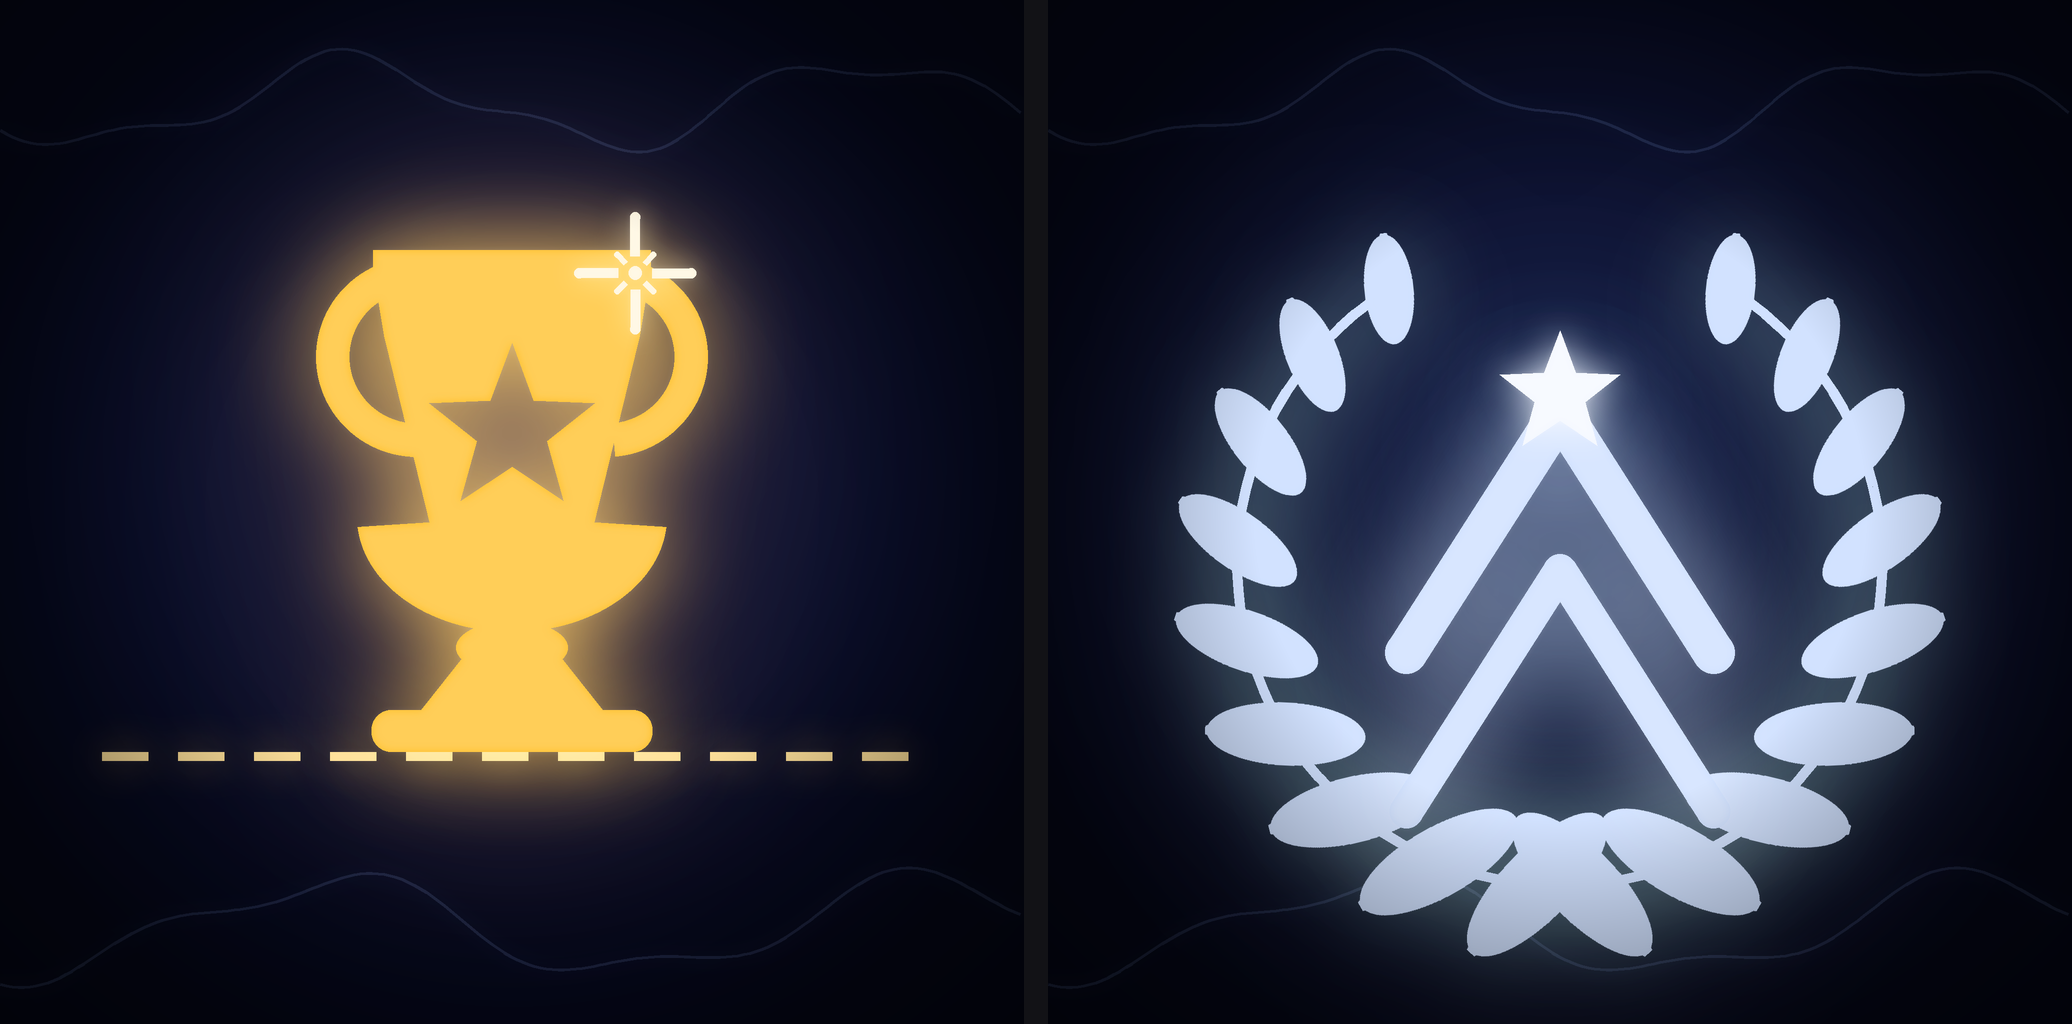
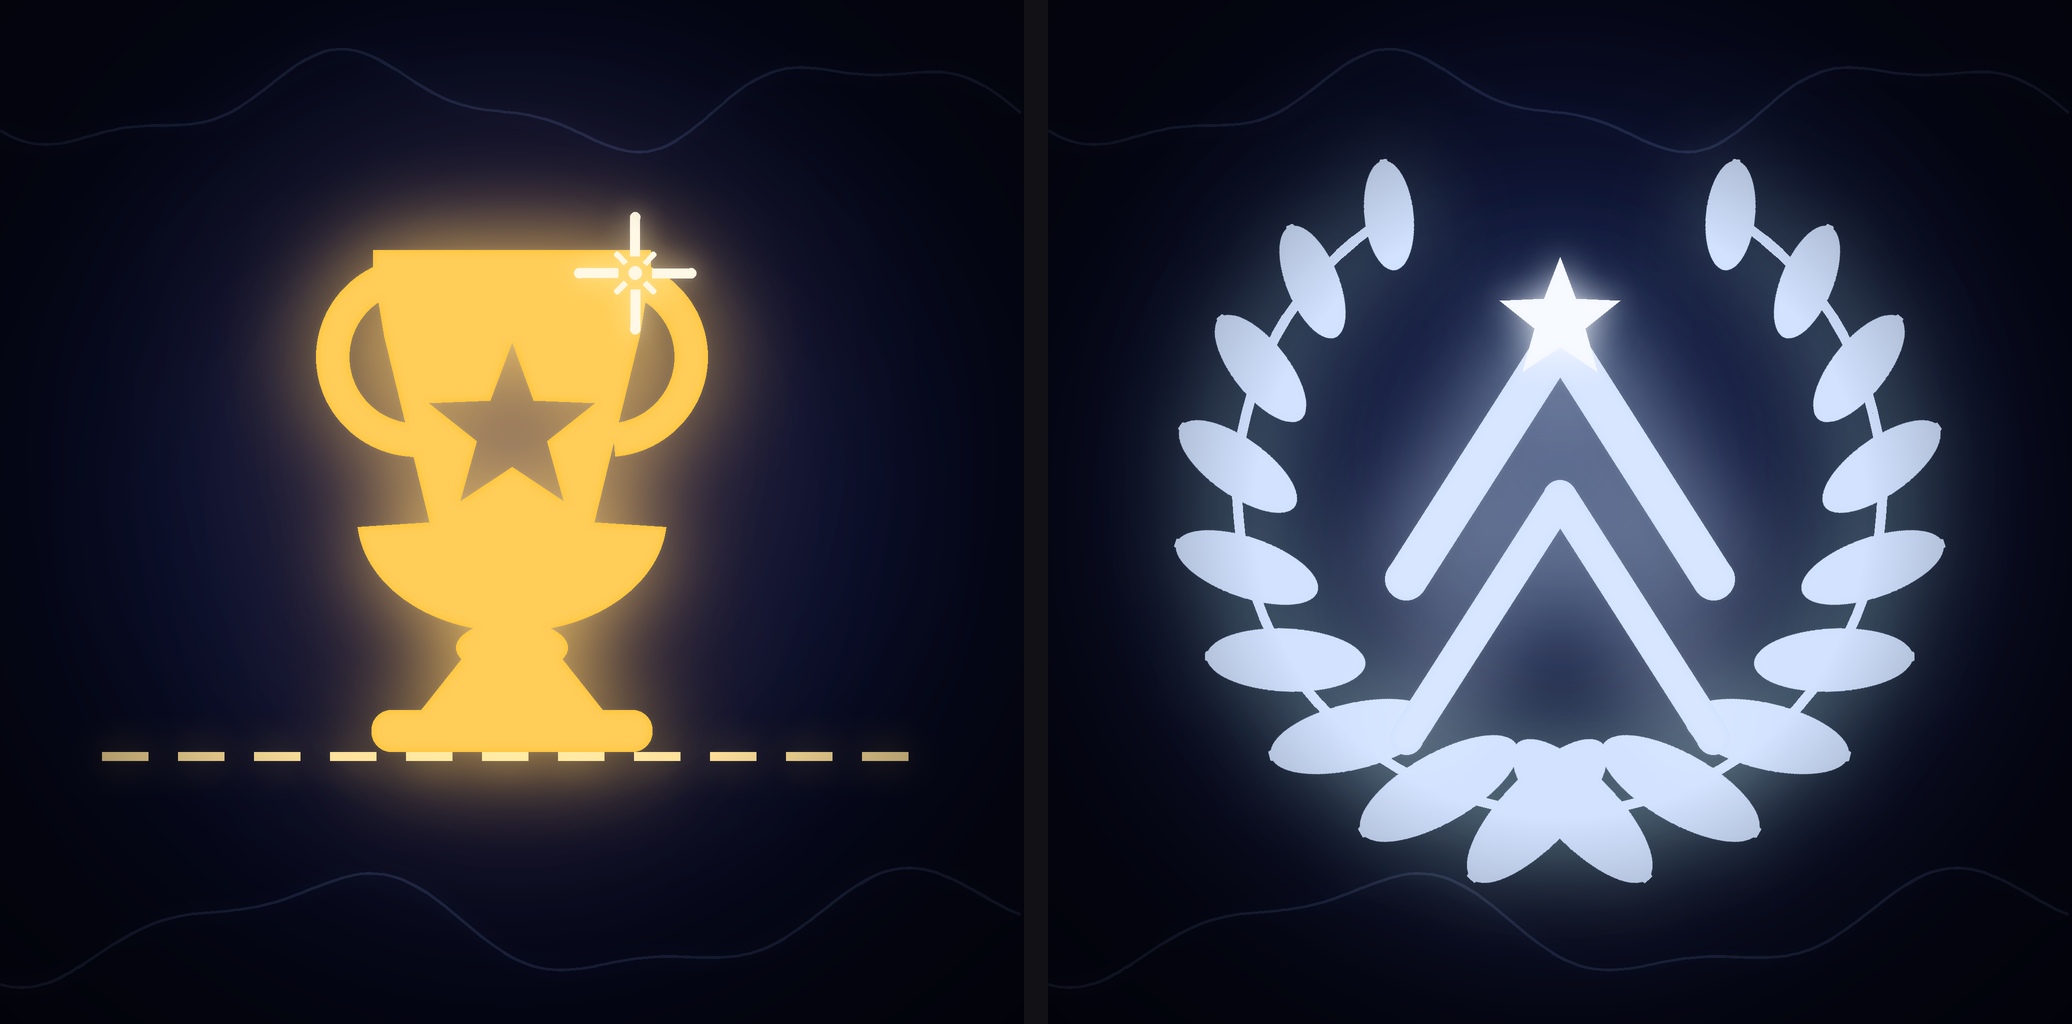
Deep run phase 3: boulders, coin-line shapes, palette drift, apex mines
- Boulders (state/lifecycle/world/systems/update/draw): large static rounded
  rocks in the deep corridor from world-x 84000 (~score 1400), sparse cadence
  (boulderSpacing, floor 2400). Radius bounded so both gaps clear the player
  (R <= halfGap - 2*PR); centre nudged toward one wall so one route is easy and
  one is a squeeze - "commit up or down", not "react". Circle-circle collision
  + shield shove-clear. Bombs clear them; bullets spark off. Seeded via
  _deepHash, no rng() stream impact.
- Coin-line shapes (makeCoin): deep coin y follows a seeded sine arc per band
  instead of scattering. rng() still consumed so coin types are unchanged.
- Palette drift (draw): wall/stalactite GLOW lerps toward a cool deep tint past
  _prog2>1, capped 0.30. Base rock + daily identity untouched.
- Apex-biased mines (makeMine, flagged): ~60% of mines at a genuine bend apex
  snap toward the centreline. _deepHash-keyed. Watch for "unfair" in playtest.

test-math: boulderSpacing sparse-cadence guard. Verified: score-8061 run,
121 boulders all with both gaps >= 2*PR, zero errors; boulder + coin-line
render eyeballed.

Claude-Session: https://claude.ai/code/session_0125EXHWm3vWhGBUsAZk5dZr

Changed region(s): [[0.556, 0.1562, 0.9575, 0.9375]]

diff --git a/src/systems.js b/src/systems.js
@@ -181,7 +181,22 @@ function makeCoin(wx) {
     if (hi <= lo) return null;
     const cy     = (lo + hi) / 2;
     const margin = (hi - lo) * 0.40;
-    const coinY  = Math.max(lo, Math.min(hi, cy + (rng() - 0.5) * 2 * margin));
+    // rng() is consumed either way so the type roll below (and everything after in
+    // the stream) is unchanged. Past the plateau, deep coin runs trace a seeded
+    // slow arc instead of scattering independently - a "line to follow", a second
+    // thing to read besides the walls. Pure _deepHash, so the shape is identical
+    // for every player that day.
+    const rY = rng();
+    let coinY;
+    if (_deepVarietyOn && wx > DEEP_VARIETY_WX) {
+        const seg = Math.floor((wx - DEEP_VARIETY_WX) / 3200);
+        const ph  = _deepHash(seg + 0x2000) * Math.PI * 2;
+        const k   = lerp(0.004, 0.012, _deepHash(seg + 0x2001));
+        const amp = (hi - lo) * 0.5 * (0.45 + _deepHash(seg + 0x2002) * 0.55);
+        coinY = Math.max(lo, Math.min(hi, cy + Math.sin(wx * k + ph) * amp));
+    } else {
+        coinY = Math.max(lo, Math.min(hi, cy + (rY - 0.5) * 2 * margin));
+    }
     const r = rng();
     let type = 'gold';
     if (_prog >= 0.38) {
@@ -457,6 +472,18 @@ function updateBullets(dt) {
             }
         }
         if (!hit) {
+            for (const bo of boulders) {
+                const dx = b.wx - bo.wx, dy = b.y - bo.y;
+                if (dx*dx + dy*dy < (bo.r + 3.5) * (bo.r + 3.5)) {
+                    burstStalCrack(bsx, b.y);   // sparks off - solid rock, not destroyed
+                    sfxStalCrack();
+                    window.webkit?.messageHandlers?.haptic?.postMessage('light');
+                    hit = true;
+                    break;
+                }
+            }
+        }
+        if (!hit) {
             for (let mi = mines.length - 1; mi >= 0; mi--) {
                 const m  = mines[mi];
                 const dx = b.wx - m.wx;
@@ -571,7 +598,19 @@ function makeMine(wx) {
     }
 
     if (hi - lo < MINE_R * 2) return null;
-    const baseY = lo + rng() * (hi - lo);
+    let baseY = lo + rng() * (hi - lo);
+    // Apex bias (deep only, flagged): at a genuine bend apex - where the corridor
+    // shape already forces the player onto the centreline - most mines snap toward
+    // that centreline instead of scattering. Same count, same speed; it just puts
+    // the mine where the player has to be. _deepHash keyed so it doesn't perturb
+    // the rng() stream. Watch this one in playtest for a "the game is cheating" read.
+    if (_deepVarietyOn && wx > DEEP_VARIETY_WX) {
+        const cM = centerAt(wx), cL = centerAt(wx - 40), cR = centerAt(wx + 40);
+        const isApex = (cL - cM) * (cR - cM) > 0;   // neighbours same side => local extremum
+        if (isApex && _deepHash(Math.floor(wx / 130) + 0x4000) < 0.6) {
+            baseY = Math.max(lo, Math.min(hi, lerp(baseY, cM, 0.75)));
+        }
+    }
     return { wx, baseY, phase: rng() * Math.PI * 2, bobAmp };
 }
 
@@ -651,6 +690,39 @@ function updateCannonShots(dt) {
     }
 }
 
+// ── Boulders ──────────────────────────────────────────────────────────
+// A large static rounded rock parked in the deep corridor. Unlike a mine it is
+// telegraphed by sheer size from far off and it does NOT span the corridor -
+// there is always a pass above AND below, so it asks "commit up or down" rather
+// than "react". Radius is bounded so both gaps clear the player
+// (R <= halfGap - 2*PR), and the centre is nudged a seeded amount toward one
+// wall so one route is the easy one and the other is the squeeze. Circle-circle
+// collision (update.js), same shield-absorb behaviour as a mine. Bombs clear
+// them; bullets just spark off (it is solid rock, not a destructible hazard).
+function makeBoulder(wx) {
+    const b  = boundsBase(wx);
+    const hg = (b.bot - b.top) / 2;
+    const maxR = Math.min(hg - PR * 2 - 6, hg * 0.42);
+    if (maxR < W * 0.018) return null;                 // corridor too tight for one
+    // Don't stack a boulder on a stalactite chicane / tip.
+    for (const s of stalactites) if (Math.abs(s.wx - wx) < maxR + s.width) return null;
+    const r    = maxR * (0.82 + _deepHash(Math.floor(wx / 260) + 0x3000) * 0.18);
+    const cy   = (b.top + b.bot) / 2;
+    const room = hg - r - PR * 2;                       // how far the centre can shift
+    const side = _deepHash(Math.floor(wx / 260) + 0x3001) < 0.5 ? -1 : 1;
+    const off  = side * room * (0.35 + _deepHash(Math.floor(wx / 260) + 0x3002) * 0.5);
+    return { wx, y: cy + off, r };
+}
+
+function maintainBoulders() {
+    while (nextBoulderWx < scrollX + W + 700) {
+        const bo = makeBoulder(nextBoulderWx);
+        if (bo) boulders.push(bo);
+        nextBoulderWx += boulderSpacing() * (0.75 + _deepHash(Math.floor(nextBoulderWx / 300) + 0x3003) * 0.5);
+    }
+    while (boulders.length && boulders[0].wx < scrollX - 200) boulders.shift();
+}
+
 // ── Bomb explosion ────────────────────────────────────────────────────
 // Triggered by collecting a bomb coin (see checkCoinCollection). A small blast
 // centered on the pickup point (cx/cy in screen space) that clears every nearby
@@ -684,6 +756,15 @@ function triggerBombExplosion(cx, cy) {
         if (dx*dx + dy*dy < r2) {
             mines.splice(mi, 1);
             burst(sx, my);
+        }
+    }
+    for (let bi = boulders.length - 1; bi >= 0; bi--) {
+        const bo = boulders[bi];
+        const dx = (bo.wx - scrollX) - cx, dy = bo.y - cy;
+        if (dx*dx + dy*dy < (BOMB_RADIUS + bo.r) * (BOMB_RADIUS + bo.r)) {
+            boulders.splice(bi, 1);
+            burstStalCrack(bo.wx - scrollX, bo.y);
+            burst(bo.wx - scrollX, bo.y, 20);
         }
     }
     for (let ci = cannonShots.length - 1; ci >= 0; ci--) {

diff --git a/src/draw.js b/src/draw.js
@@ -241,6 +241,15 @@ function drawWorld() {
     ctx.translate(ox, oy);
 
     const theme = getTheme();
+    // Deep-run palette drift: nudge the wall / stalactite GLOW toward a cooler
+    // deep tint the further in you get - "it looks different down here" fights
+    // monotony even when the mechanics hold steady. Subtle, capped, and only the
+    // accent glows move; the base rock colour and the daily identity are untouched.
+    if (_deepVarietyOn && _prog2 > 1) {
+        const d = Math.min((_prog2 - 1) * 0.10, 0.30);
+        theme.wallBase = lerpClr(theme.wallBase, [92, 122, 208], d);
+        theme.stalEdge = lerpClr(theme.stalEdge, [110, 140, 220], d * 0.8);
+    }
     const bgStr = rgb(theme.bg);
     if (bgStr !== _lastBgStr) { document.body.style.background = bgStr; _lastBgStr = bgStr; }
     ctx.fillStyle = bgStr;
@@ -524,6 +533,32 @@ function drawWorld() {
             ctx.fillStyle = `rgba(255,230,80,${0.90 * pulse})`;
             ctx.fill();
         }
+    }
+
+    // Boulders - solid rounded rock, same stone treatment as the walls/stalactites
+    for (const bo of boulders) {
+        const sx = bo.wx - scrollX;
+        if (sx < -bo.r - 30 || sx > W + bo.r + 30) continue;
+        const bgrd = ctx.createRadialGradient(sx - bo.r * 0.35, bo.y - bo.r * 0.4, bo.r * 0.1, sx, bo.y, bo.r);
+        bgrd.addColorStop(0,   rgb(lerpClr(theme.stal, theme.stalEdge, 0.35)));
+        bgrd.addColorStop(0.6, rgb(theme.stal));
+        bgrd.addColorStop(1,   rgb(lerpClr(theme.stal, [0, 0, 0], 0.35)));
+        ctx.save();
+        ctx.beginPath();
+        ctx.arc(sx, bo.y, bo.r, 0, Math.PI * 2);
+        ctx.fillStyle = bgrd;
+        ctx.fill();
+        ctx.clip();
+        _paintStonePattern(scrollX);
+        ctx.restore();
+        ctx.beginPath();
+        ctx.arc(sx, bo.y, bo.r, 0, Math.PI * 2);
+        ctx.shadowColor = rgb(theme.stalEdge, 0.5);
+        ctx.shadowBlur  = 12;
+        ctx.strokeStyle = rgb(theme.stalEdge, 0.7);
+        ctx.lineWidth   = 2;
+        ctx.stroke();
+        ctx.shadowBlur = 0;
     }
 
     // Mines

diff --git a/test-math.js b/test-math.js
@@ -46,7 +46,8 @@ function makeWorld(innerWidth, innerHeight) {
         this.scrollSpd = scrollSpd; this.stalSpacing = stalSpacing; this.coinSpacing = coinSpacing;
         this.mineSpacing = mineSpacing; this.cannonSpacing = cannonSpacing; this.milestoneStep = milestoneStep;
         this.setDayArchetype = function(i) { _dayArchetype = i; };
-        this.deepMorphAt = deepMorphAt; this.deepChamberAt = deepChamberAt; this.fallSpacing = fallSpacing;
+        this.deepMorphAt = deepMorphAt; this.deepChamberAt = deepChamberAt;
+        this.fallSpacing = fallSpacing; this.boulderSpacing = boulderSpacing;
         this.DEEP_VARIETY_WX = DEEP_VARIETY_WX; this.DEEP_PULSE_AMP = DEEP_PULSE_AMP; this.DEEP_PULSE_WAVELEN = DEEP_PULSE_WAVELEN;
         this.DEEP_CHAMBER_PEAK = DEEP_CHAMBER_PEAK;
         this.setDeepDay = function(d) { _deepDay = d; };
@@ -329,6 +330,12 @@ for (const [iw, ih] of [[600, 600], [844, 390], [1512, 823]]) {
     const fsAt = (wx) => { w.scrollX = wx; w.refreshWave(); return w.fallSpacing(); };
     check('fallSpacing tightens from a rare set-piece to a floored deep cadence',
         fsAt(D - 40000) > fsAt(D) && fsAt(D) > fsAt(D + 200000) && fsAt(D + 5_000_000) >= 1800);
+
+    // Boulders (Phase 3): rare - spacing floors well above every recurring hazard.
+    const bsAt = (wx) => { w.scrollX = wx; w.refreshWave(); return w.boulderSpacing(); };
+    check('boulderSpacing stays a sparse set-piece cadence (>= 2400, above mine/coin spacing)',
+        bsAt(84000) >= 2400 && bsAt(5_000_000) >= 2400 &&
+        bsAt(5_000_000) > w.mineSpacing() * 5 && bsAt(5_000_000) > w.coinSpacing() * 5);
 }
 
 if (failed) {

diff --git a/src/update.js b/src/update.js
@@ -414,6 +414,7 @@ function update(dt) {
     maintainCoins();
     maintainMines();
     maintainCannons();
+    maintainBoulders();
 
     // Fade coins that are blocked by a stalactite or have scrolled off the left edge
     for (const arr of [coins, chicaneCoins]) for (const coin of arr) {
@@ -475,6 +476,27 @@ function update(dt) {
             shake += 12;
             burst(sx, my);
             pushNotif(sx, my - H*0.06, 1.1, T.blocked, [255, 90, 40]);
+            window.webkit?.messageHandlers?.haptic?.postMessage('heavy');
+            break;
+        }
+    }
+
+    // Boulder collision (circle-circle, same trade-off hitbox + shield-absorb as a mine).
+    for (let bi = 0; bi < boulders.length; bi++) {
+        const bo = boulders[bi];
+        const sx = bo.wx - scrollX;
+        if (sx < -bo.r - 40 || sx > W + bo.r + 40) continue;
+        const dx = PX - sx, dy = py - bo.y, rr = cPR + bo.r;
+        if (dx*dx + dy*dy < rr*rr) {
+            deathCause = 'open';
+            if (die()) return;
+            // Shield absorbed - shove the ship clear of the rock so it can't re-hit.
+            const d = Math.max(1, Math.hypot(dx, dy));
+            py = bo.y + (dy / d) * (rr + 2);
+            vy = 0;
+            shake += 12;
+            burst(sx, bo.y);
+            pushNotif(sx, bo.y - H*0.06, 1.1, T.blocked, [255, 90, 40]);
             window.webkit?.messageHandlers?.haptic?.postMessage('heavy');
             break;
         }

diff --git a/src/lifecycle.js b/src/lifecycle.js
@@ -36,6 +36,7 @@ function titleScreen() {
     pbPassed = false; pbFlash = 0;
     mines = []; nextMineWx = 99999;
     cannons = []; nextCannonWx = 99999; cannonShots = [];
+    boulders = []; nextBoulderWx = 99999;
     // Coins never spawn on the title screen (nextCoinWx = 99999 above), so these are
     // never actually consulted here -- just kept defined to avoid stray undefineds.
     poisonClock = 0; nextPoisonAt = POISON_INTERVAL_SEC;
@@ -94,6 +95,8 @@ function startPlay() {
     // Cannons start much later than mines (score ~100) and are spaced far apart -- a
     // rare hazard, not a constant one (see world.js cannonSpacing()).
     cannons = []; nextCannonWx = 6000; cannonShots = [];
+    // Boulders: deep-only routing obstacle, from world-x 84000 (~score 1400).
+    boulders = []; nextBoulderWx = 84000;
     bonusScore = 0; milestoneNext = 50; nearMissTimer = 0; coinCombo = 0; coinComboTimer = 0;
     runCoins = 0; runNearMisses = 0; runMaxCombo = 0; skinUnlockIdx = -1;
     skinMasteryUpIdx = -1; missionRewardWon = 0;

diff --git a/src/world.js b/src/world.js
@@ -152,6 +152,13 @@ function fallSpacing() {
     return Math.max(lerp(3400, 2000, Math.min(_prog2, 1)) - 350 * Math.max(_prog2 - 1, 0), 1800);
 }
 
+// Boulders (systems.js makeBoulder/maintainBoulders): a deep-only routing
+// obstacle from world-x 84000 (~score 1400). Rare - closer to a cannon's cadence
+// than a mine's - so it reads as "commit up or down now", not a dodge-fest.
+function boulderSpacing() {
+    return Math.max(3400 - 250 * Math.max(_prog2 - 1.75, 0), 2400);
+}
+
 function refreshWave() {
     _prog    = Math.min(Math.sqrt(scrollX / 14000), 1);
     _prog2   = Math.max(scrollX - 14000, 0) / 40000;          // no cap - escalates forever

diff --git a/src/state.js b/src/state.js
@@ -296,6 +296,10 @@ let reviveCountdownT;
 let bullets, bulletAmmo, bulletFireTimer;
 let mines, nextMineWx;
 let cannons, nextCannonWx;
+// Boulders: large static rounded rocks in the deep corridor - a "go over or
+// under" routing choice (systems.js makeBoulder/maintainBoulders). From world-x
+// 84000 (~score 1400) in startPlay, 99999 on the title screen.
+let boulders, nextBoulderWx;
 let cannonShots;
 // Poison/bomb: real-time clocks (see constants.js POISON_INTERVAL_SEC doc), not
 // per-coin-candidate probabilities. poisonClock/bombClock accumulate play seconds

diff --git a/branding/game-center/gen-leaderboard-icons.py b/branding/game-center/gen-leaderboard-icons.py
@@ -249,7 +249,9 @@ def compose_alltime():
     img = add_glow(img, cw, (110, 150, 255), blur=10 * SS, strength=0.28)
     img = paint(img, cw.point(lambda p: int(p * 0.30)), (150, 180, 255), white_core=0)
 
-    cx, cy = S * 0.5, S * 0.55
+    # cy set so the wreath's own vertical mid-line (it spans ~cy-0.85R to cy+R)
+    # lands on the icon centre, not its geometric anchor
+    cx, cy = S * 0.5, S * 0.478
     R = S * 0.315
 
     lm = laurel_mask(cx, cy, R)

diff --git a/CLAUDE.md b/CLAUDE.md
@@ -138,6 +138,17 @@ becomes a floor spike and the dodge is unambiguously "go over it". The gap above
 collision and render always agree. Bullets/bombs kill a falling one like any stalactite.
 `fallSpacing()` runs `~3400 -> 2000` world-px over `_prog2`, floored at 1800.
 
+### Boulders
+Large static rounded rock parked in the **deep** corridor (`src/systems.js`
+`makeBoulder`/`maintainBoulders`, from world-x 84000 / ~score 1400, `boulderSpacing()` in
+`world.js` - a sparse set-piece cadence, floor 2400px). Unlike a mine it is telegraphed
+by sheer size and **never spans the corridor**: radius is bounded (`R <= halfGap - 2*PR`)
+and the centre is nudged a seeded amount toward one wall, so there is always a pass above
+AND below - one easy, one a squeeze. It asks "commit up or down" rather than "react".
+Circle-circle collision (`update.js`), same shield-absorb + shove-clear as a mine. Bombs
+clear boulders; player bullets just spark off (solid rock, not a destructible hazard).
+Seeded via `_deepHash`, no `rng()`-stream impact.
+
 ### Cannons
 Rare wall-mounted artillery turret (`src/systems.js` `makeCannon`/`maintainCannons`/
 `updateCannonShots`), first appearing at wx=6000 (score ~100) and spaced far apart
@@ -223,12 +234,23 @@ without touching the navigability caps:
   This is the one thing that legitimately breaks "the corridor only ever narrows" past
   the plateau, by design.
 
-Both morph and pulse are pure functions of `scrollX` + `_deepDay` (captured in
-`seedDailyVariety`, independent of the `rng()` obstacle stream and the `h`-chain), so
-every player flies the identical sequence and the scrollX-indexed ghost stays locked.
-`_deepVarietyOn` (default true) is a kill switch for morph + pulse + chambers. Phases 1-2
-of the "deep run" brief (shape morph + speed pulse + chambers + falling stalactites, see
-Stalactites above); boulders / coin-line shapes / apex-biased mines are Phase 3.
+Everything above (morph, pulse, chambers) is a pure function of `scrollX` + `_deepDay`
+(captured in `seedDailyVariety`, independent of the `rng()` obstacle stream and the
+`h`-chain), so every player flies the identical sequence and the scrollX-indexed ghost
+stays locked. `_deepVarietyOn` (default true) is the master kill switch for all of it.
+
+**Phase 3** (also `_deepVarietyOn` / `_deepHash`, all past `DEEP_VARIETY_WX`):
+- **Coin-line shapes** (`makeCoin`, `src/systems.js`): deep coin `y` follows a seeded
+  slow sine arc per ~3200px band instead of scattering independently - a line to follow.
+  `rng()` is still consumed so coin *types* are unchanged; only positions move.
+- **Palette drift** (`draw()`, `src/draw.js`): past `_prog2 > 1` the wall / stalactite
+  *glow* (`wallBase`/`stalEdge`) lerps toward a cool deep tint, capped at 0.30. Base rock
+  colour and the daily identity are untouched. Subtle on purpose.
+- **Apex-biased mines** (`makeMine`, `src/systems.js`, flagged): at a genuine bend apex
+  (`centerAt` neighbours both on one side) ~60% of mines snap toward the centreline -
+  where the corridor shape already forces the player. Same count/speed. **Watch in
+  playtest for a "the game is cheating" read** - cut it if it feels unfair.
+- **Boulders**: see the Boulders section above.
 
 ### Coin type progression
 
